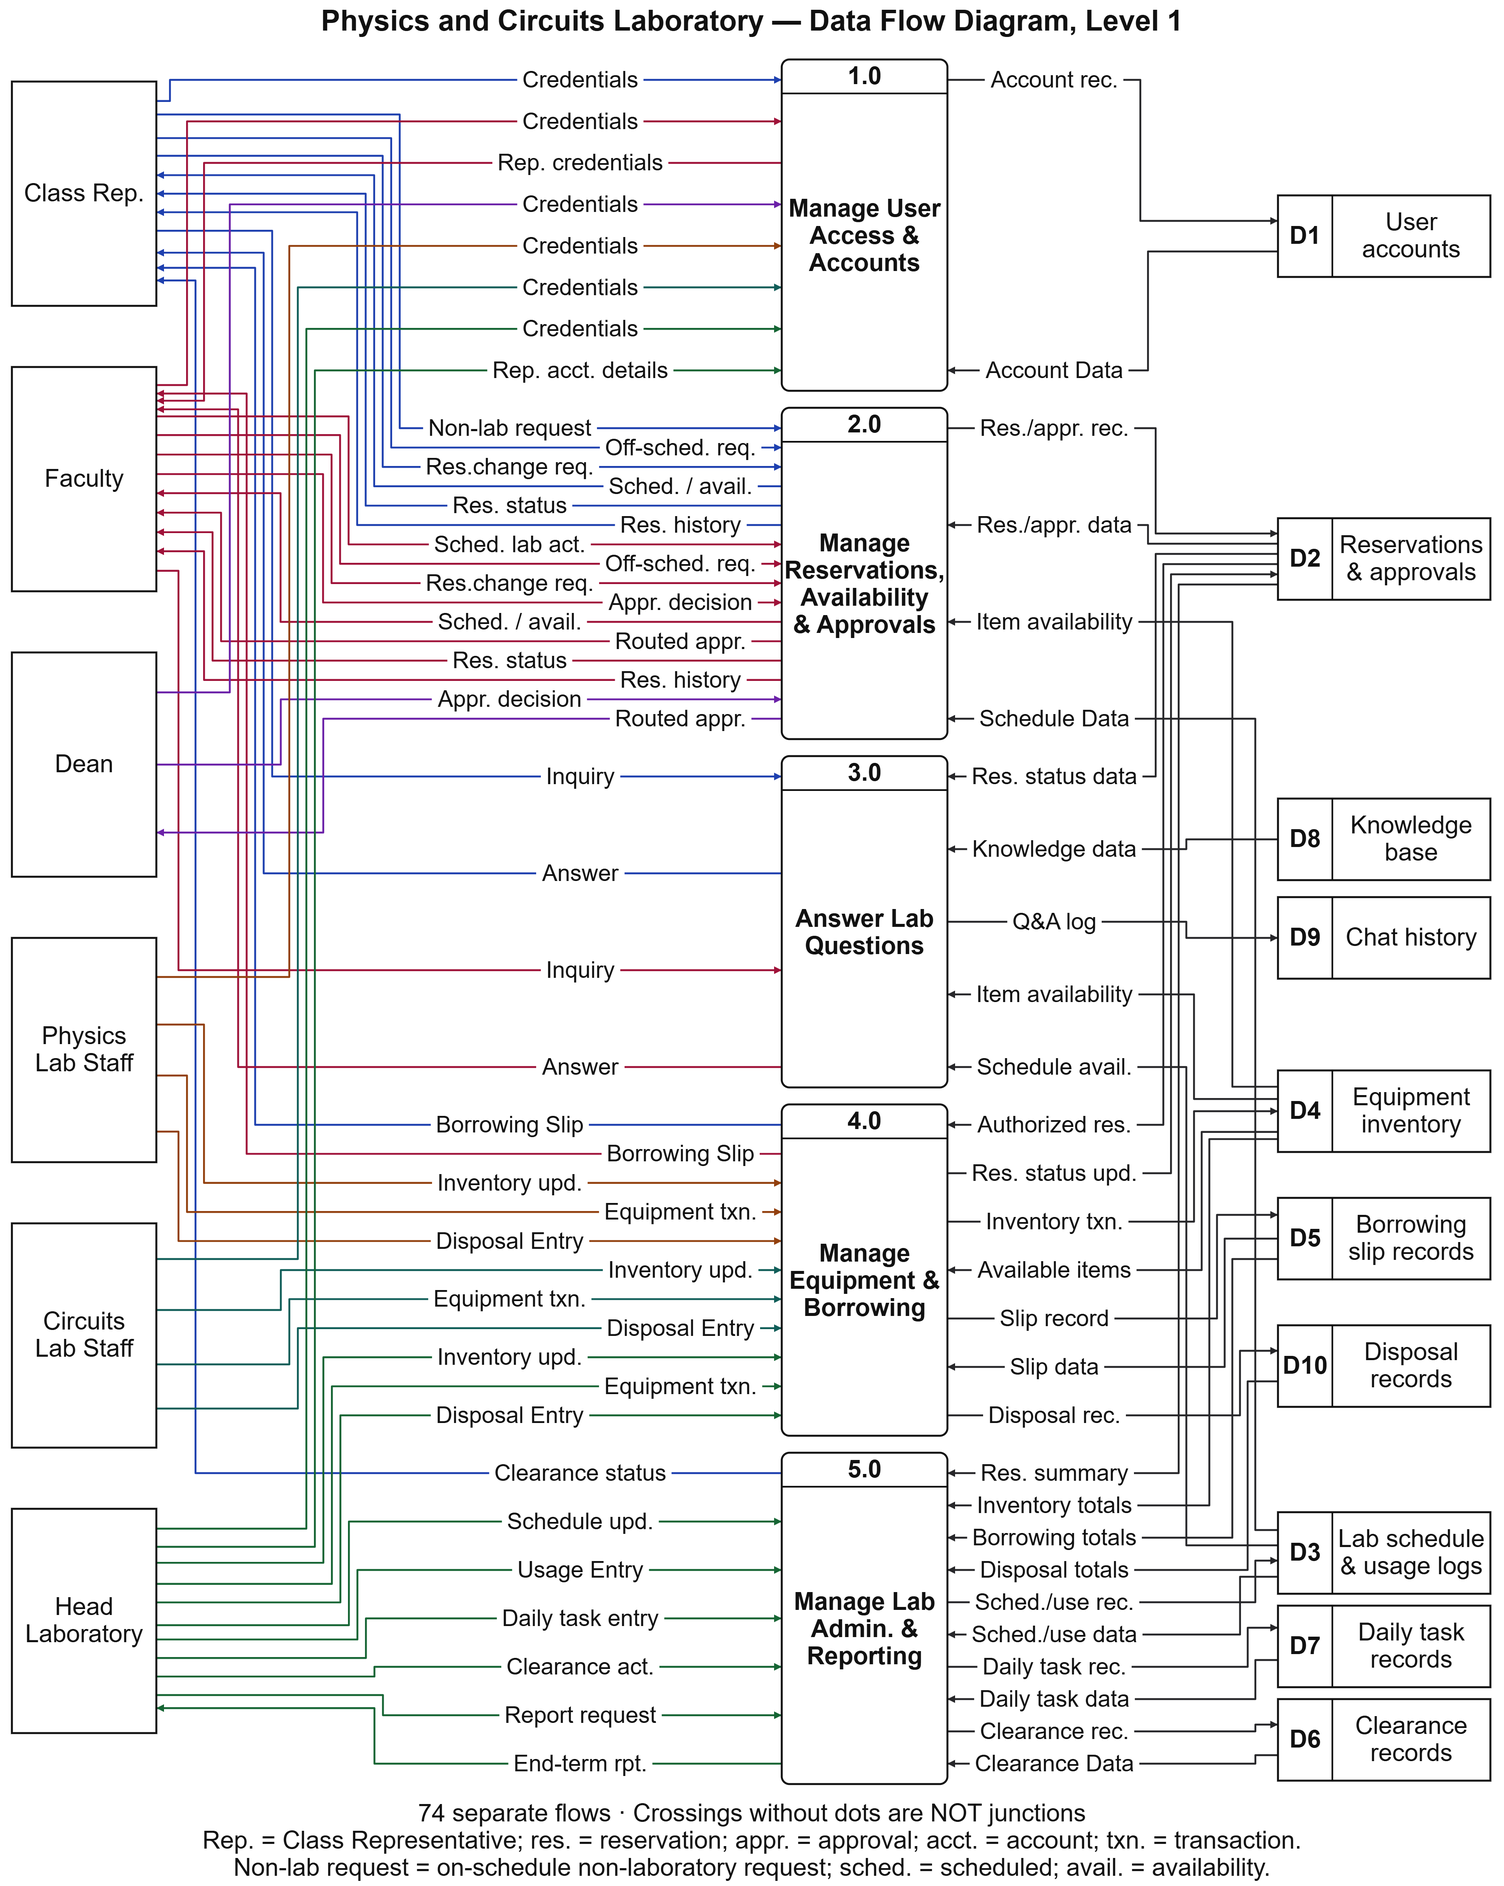
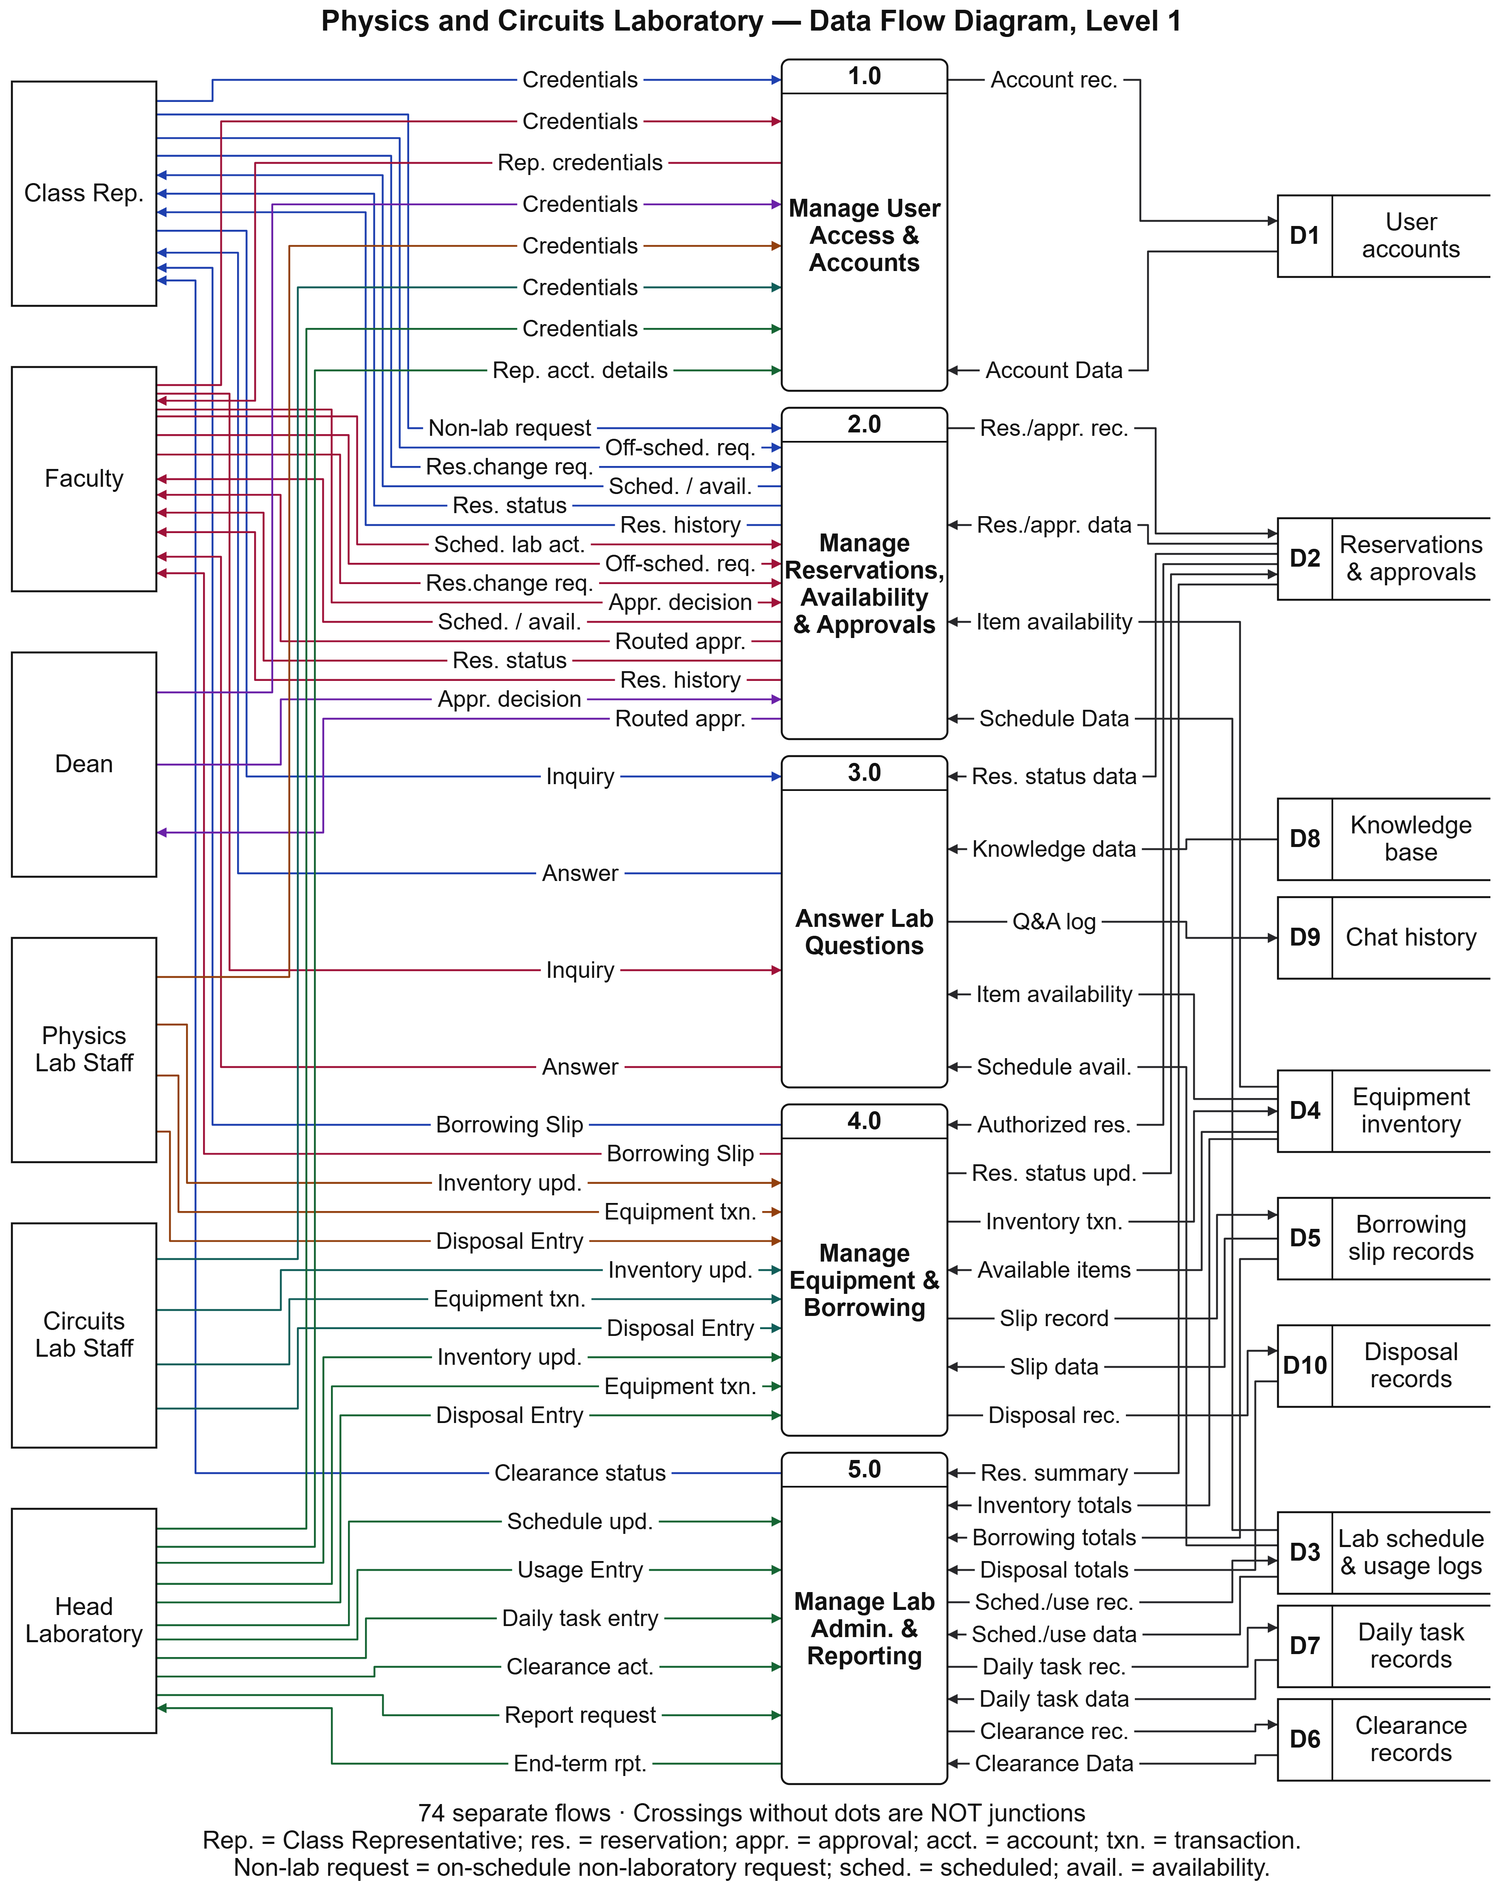
Improve DFD readability and order use-case login connectors

diff --git a/assets/figures-v2/dfd-level2-compact/dfd-level2-renderer.js b/assets/figures-v2/dfd-level2-compact/dfd-level2-renderer.js
@@ -4,7 +4,7 @@
 (async function(){
   'use strict';
   const params=new URLSearchParams(location.search),output=params.has('embed')||params.has('export');
-  const NS='http://www.w3.org/2000/svg',W=1834,H=1451.9166666667,FONT=27,LABEL_GAP=6;
+  const NS='http://www.w3.org/2000/svg',W=1878,H=1486.75,FONT=27,LABEL_GAP=6,LANE_GAP=20;
   document.body.classList.toggle('output-mode',output);
   const aliases={
     'Class Representative Credentials':'Rep. credentials',
@@ -132,7 +132,7 @@
     const targets={};
     [...actors,...stores].forEach(n=>{const links=model.flows.filter(f=>f.source===n.id||f.target===n.id);targets[n.id]=links.reduce((sum,f)=>sum+centre(nodes[f.source===n.id?f.target:f.source]),0)/links.length;});
     const E={x:14,w:170,h:Math.max(170,...actors.map(n=>model.flows.filter(f=>f.source===n.id||f.target===n.id).length*20+20))};
-    const D={x:1568,w:250,h:120,idw:64};
+    const D={x:1612,w:250,h:120,idw:64};
     // Actor order follows the approved role column; Head Laboratory remains last.
     place(actors,targets,E.h).forEach(n=>nodes[n.id]={...n,...E,kind:'entity',lines:entityLines[n.id]});
     place(stores.slice().sort((a,b)=>targets[a.id]-targets[b.id]),targets,D.h).forEach(n=>nodes[n.id]={...n,...D,kind:'store',lines:storeLines[n.id]});
@@ -142,8 +142,8 @@
     svg.appendChild(text(W/2,34,['Process '+model.id.slice(1)+'.0 — '+model.name],{'font-size':30,'font-weight':700}));
     const defs=el('defs');
     Object.entries({...colors,store:'#27272a',internal:'#27272a'}).forEach(([id,color])=>{
-      const marker=el('marker',{id:'arrow-'+id,markerWidth:10,markerHeight:10,refX:9,refY:4.5,orient:'auto',markerUnits:'userSpaceOnUse'});
-      marker.appendChild(el('path',{d:'M0 0 L9 4.5 L0 9 Z',fill:color}));defs.appendChild(marker);
+      const marker=el('marker',{id:'arrow-'+id,markerWidth:13,markerHeight:13,refX:12,refY:6,orient:'auto',markerUnits:'userSpaceOnUse'});
+      marker.appendChild(el('path',{d:'M0 0 L12 6 L0 12 Z',fill:color}));defs.appendChild(marker);
     });svg.appendChild(defs);
     const paths=el('g'),shapes=el('g'),labels=el('g');svg.append(paths,shapes,labels);
     document.getElementById('stage').replaceChildren(svg);
@@ -167,22 +167,28 @@
           const preferred=box.y+20+(i+.5)*(box.h-40)/own.length;let sy=null;
           for(let shift=0;shift<=box.h*2&&sy===null;shift++)for(const sign of [1,-1]){
             const candidate=preferred+sign*shift*.5;
-            if(candidate>=previous+8&&candidate>=box.y+12&&candidate<=box.y+box.h-12&&allY[kind].every(y=>Math.abs(y-candidate)>=8)){sy=candidate;break;}
+            if(candidate>=previous+14&&candidate>=box.y+12&&candidate<=box.y+box.h-12&&allY[kind].every(y=>Math.abs(y-candidate)>=8)){sy=candidate;break;}
           }
           if(sy===null)throw Error('Cannot separate port rows: '+f.id);
           previous=sy;allY[kind].push(sy);Object.assign(flowPorts[f.id],{sy,peer:n.id,process:process(f).id,peerOrder:i});
         });
       });
     }
-    // Mirror the vertical lane order across the process column. Earlier
-    // process ports get the outermost lane: leftmost for entities, rightmost
-    // for stores. Each flow owns a distinct lane, even for disjoint spans.
+    // Mirror lanes across BOTH axes: a peer above the process needs the
+    // opposite staircase from a peer below it. Arrow direction is unchanged.
+    // Keep upward/downward geometric runs in separate lane bands.
     const processOrder=(a,b)=>flowPorts[a.id].py-flowPorts[b.id].py;
     const left=model.flows.filter(f=>f.kind==='external').sort(processOrder);
     const right=model.flows.filter(f=>f.kind==='store').sort(processOrder);
     const laneById={};
-    left.forEach((f,i)=>laneById[f.id]=200+i*16);
-    right.forEach((f,i)=>laneById[f.id]=1358+(right.length-1-i)*16);
+    function assignLanes(flows,start,isLeft){
+      const below=flows.filter(f=>flowPorts[f.id].sy>flowPorts[f.id].py);
+      const above=flows.filter(f=>flowPorts[f.id].sy<=flowPorts[f.id].py);
+      const ordered=isLeft?below.concat(above.reverse()):above.concat(below.reverse());
+      ordered.forEach((f,i)=>laneById[f.id]=start+i*LANE_GAP);
+    }
+    assignLanes(left,200,true);
+    assignLanes(right,1358,false);
     function draw(f,points,lx,ly,label,colorKey,side){
       const path=el('path',{class:'diagram-connector','data-flow-id':f.id,d:points.map((p,i)=>(i?'L':'M')+p.join(' ')).join(' '),fill:'none',stroke:colors[colorKey]||'#27272a','stroke-width':2.2,'marker-end':'url(#arrow-'+colorKey+')'});
       const title=el('title');title.textContent=f.label;path.appendChild(title);paths.appendChild(path);
@@ -203,12 +209,13 @@
     });
     Object.values(nodes).forEach(n=>{
       const group=el('g',{'data-node-id':n.id,'data-node-kind':n.kind});
-      group.appendChild(el('rect',{x:n.x,y:n.y,width:n.w,height:n.h,rx:n.kind==='process'?9:0,fill:'#fff',stroke:'#111','stroke-width':2.3}));
+      group.appendChild(el('rect',{x:n.x,y:n.y,width:n.w,height:n.h,rx:n.kind==='process'?9:0,fill:'#fff',stroke:n.kind==='store'?'none':'#111','stroke-width':2.3}));
       if(n.kind==='process'){
         group.appendChild(el('line',{x1:n.x,y1:n.y+40,x2:n.x+n.w,y2:n.y+40,stroke:'#111','stroke-width':2}));
         group.appendChild(text(n.x+n.w/2,n.y+31,[n.number],{'font-size':29,'font-weight':700}));
       }
       if(n.kind==='store'){
+        group.appendChild(el('path',{'data-store-outline':'open-right',d:`M${n.x+n.w} ${n.y} H${n.x} V${n.y+n.h} H${n.x+n.w}`,fill:'none',stroke:'#111','stroke-width':2.3}));
         group.appendChild(el('line',{x1:n.x+n.idw,y1:n.y,x2:n.x+n.idw,y2:n.y+n.h,stroke:'#111','stroke-width':2}));
         group.appendChild(text(n.x+n.idw/2,n.y+n.h/2+9,[n.number],{'font-size':29,'font-weight':700}));
       }
@@ -222,9 +229,9 @@
     });
     document.getElementById('heading').textContent='DFD Level 2 — Process '+model.id.slice(1)+'.0';
     clearLabelStrokes(svg);
-    window.__level2={model,parent,nodes,routes,labelBoxes,constants:{W,H,P,E,D,FONT}};
+    window.__level2={model,parent,nodes,routes,labelBoxes,constants:{W,H,P,E,D,FONT,LANE_GAP}};
     if(!output){
-      const authored=svg.cloneNode(true);window.SOMADADiagramEditor.init(svg,{storageKey:'dfd-level2-mirrored-process-lanes-'+model.id+'-v4'});
+      const authored=svg.cloneNode(true);window.SOMADADiagramEditor.init(svg,{storageKey:'dfd-level2-large-heads-'+model.id+'-v7'});
       svg.querySelectorAll('.diagram-connector-hit').forEach(hit=>hit.removeAttribute('stroke-dasharray'));
       window.addEventListener('beforeprint',()=>svg.replaceWith(authored));window.addEventListener('afterprint',()=>authored.replaceWith(svg));
     }

diff --git a/assets/figures-v2/dfd-level1/dfd-level1-portrait.js b/assets/figures-v2/dfd-level1/dfd-level1-portrait.js
@@ -176,8 +176,8 @@
     svg.appendChild(el('rect',{width:W,height:H,fill:'#fff'}));
     const defs=el('defs');
     Object.entries({...colors,store:'#27272a'}).forEach(([key,color])=>{
-      const marker=el('marker',{id:'arrow-'+key,markerWidth:10,markerHeight:10,refX:9,refY:4.5,orient:'auto',markerUnits:'userSpaceOnUse'});
-      marker.appendChild(el('path',{d:'M0 0 L9 4.5 L0 9 Z',fill:color}));defs.appendChild(marker);
+      const marker=el('marker',{id:'arrow-'+key,markerWidth:13,markerHeight:13,refX:12,refY:6,orient:'auto',markerUnits:'userSpaceOnUse'});
+      marker.appendChild(el('path',{d:'M0 0 L12 6 L0 12 Z',fill:color}));defs.appendChild(marker);
     });
     svg.appendChild(defs);
     svg.appendChild(text(W/2,36,['Physics and Circuits Laboratory — Data Flow Diagram, Level 1'],{'font-size':34,'font-weight':700}));
@@ -219,15 +219,19 @@
     [...model.entities,...model.stores].sort((a,b)=>nodes[a.id].y-nodes[b.id].y).forEach(peer=>{
       const n=nodes[peer.id];
       const flows=model.flows.filter(f=>f.source===peer.id||f.target===peer.id).sort(orderedByPeer);
-      flows.forEach((f,i)=>{
+      const peerRows=[];
+      // Reserve incoming heads first; outgoing tails need less edge clearance.
+      flows.slice().sort((a,b)=>Number(b.target===peer.id)-Number(a.target===peer.id)).forEach(f=>{
+        const i=flows.indexOf(f);
         const preferred=n.y+12+(i+.5)*(n.h-24)/flows.length;
         let sy=null;
         for(let shift=0;shift<=n.h*2 && sy===null;shift++) for(const sign of [1,-1]) {
           const candidate=preferred+sign*shift*.5;
-          if(candidate>=n.y+12 && candidate<=n.y+n.h-12 && usedY[f.kind].every(y=>Math.abs(y-candidate)>=8)) {sy=candidate;break;}
+          if(candidate>=n.y+12 && candidate<=n.y+n.h-12 && usedY[f.kind].every(y=>Math.abs(y-candidate)>=8) && (f.target!==peer.id||peerRows.every(y=>Math.abs(y-candidate)>=14))) {sy=candidate;break;}
         }
         if(sy===null)throw new Error('Cannot separate horizontal approach rows for '+f.id);
         usedY[f.kind].push(sy);
+        if(f.target===peer.id)peerRows.push(sy);
         const p=port[f.id],external=f.kind==='external';
         const lane=external?200+(externalLane++)*EXTERNAL_LANE_STEP:1342+(storeLane++)*STORE_LANE_STEP;
         const process=nodes[nodes[f.source].kind==='process'?f.source:f.target];
@@ -252,12 +256,13 @@
     Object.values(nodes).forEach(n=>{
       const group=el('g',{'data-node-id':n.id,'data-node-kind':n.kind,'data-canonical-name':n.name});
       const title=el('title');title.textContent=n.name;group.appendChild(title);
-      group.appendChild(el('rect',{x:n.x,y:n.y,width:n.w,height:n.h,rx:n.kind==='process'?9:0,fill:'#fff',stroke:'#111','stroke-width':2.3}));
+      group.appendChild(el('rect',{x:n.x,y:n.y,width:n.w,height:n.h,rx:n.kind==='process'?9:0,fill:'#fff',stroke:n.kind==='store'?'none':'#111','stroke-width':2.3}));
       if(n.kind==='process') {
         group.appendChild(el('line',{x1:n.x,y1:n.y+40,x2:n.x+n.w,y2:n.y+40,stroke:'#111','stroke-width':2}));
         group.appendChild(text(n.x+n.w/2,n.y+29,[n.number],{'font-size':29,'font-weight':700}));
       }
       if(n.kind==='store') {
+        group.appendChild(el('path',{'data-store-outline':'open-right',d:`M${n.x+n.w} ${n.y} H${n.x} V${n.y+n.h} H${n.x+n.w}`,fill:'none',stroke:'#111','stroke-width':2.3}));
         group.appendChild(el('line',{x1:n.x+n.idw,y1:n.y,x2:n.x+n.idw,y2:n.y+n.h,stroke:'#111','stroke-width':2}));
         group.appendChild(text(n.x+n.idw/2,n.y+n.h/2+9,[n.number],{'font-size':29,'font-weight':700}));
       }
@@ -282,7 +287,7 @@
     if(!output) {
       const authored=svg.cloneNode(true);
       authored.querySelector('[data-routing-guides]').replaceChildren();
-      window.SOMADADiagramEditor.init(svg,{storageKey:'dfd-level1-a4-portrait-74-head-only-logs-v3'});
+      window.SOMADADiagramEditor.init(svg,{storageKey:'dfd-level1-a4-portrait-74-large-heads-v4'});
       svg.querySelectorAll('.diagram-connector-hit').forEach(hit=>hit.removeAttribute('stroke-dasharray'));
       // Ctrl+P and the Print button both print the checked authored geometry,
       // not potentially overlapping edits saved by an individual browser.

diff --git a/assets/figures-v2/usecase-diagram-source.html b/assets/figures-v2/usecase-diagram-source.html
@@ -244,6 +244,10 @@ svg.appendChild(textEl(CANVAS_W/2, BOUNDARY.y+40, ['A Web-Based Physics and Circ
 // to the base use cases in which they directly participate.
 const associationLayer = el('g', {'aria-label':'Actor associations'});
 svg.appendChild(associationLayer);
+// Visual order differs from ACTORS array order after Faculty and Dean move.
+const loginActorsBySide = Object.fromEntries(['left','right'].map(side => [side,
+  ACTORS.filter(actor => actor.side===side && actor.uses.includes('login')).sort((a,b)=>a.cy-b.cy)
+]));
 ACTORS.forEach(actor => {
   const hand = {
     x:ACTOR_X[actor.side] + (actor.side === 'left' ? 58 : -58),
@@ -253,8 +257,11 @@ ACTORS.forEach(actor => {
     const useCase = byId[useCaseId];
     const endpoint = ellipseSidePoint(useCase, actor.side);
     const flowId = `association-${actor.id}-${useCaseId}`;
-    const i=ACTORS.indexOf(actor),left=actor.side==='left';
-    const outer=left?180-i*7:1420+i*7,inner=endpoint.x+(left?-22-i*7:22+i*7),top=158+i*8;
+    const left=actor.side==='left';
+    const loginRank=loginActorsBySide[actor.side].indexOf(actor);
+    const i=loginRank+(left?0:loginActorsBySide.left.length);
+    const outer=left?152+loginRank*14:1448-loginRank*14;
+    const inner=endpoint.x+(left?-22-i*7:22+i*7),top=158+i*8;
     associationLayer.appendChild(el('path', {
       class:'diagram-connector', 'data-flow-id':flowId,
       d:useCaseId==='login'
@@ -358,7 +365,7 @@ document.querySelectorAll('.diagram-flow-label').forEach((label,i)=>{
 });
 if(!outputMode){
   const authored=svg.cloneNode(true);
-  window.SOMADADiagramEditor.init(svg, {storageKey:'usecase-head-only-logs-v3'});
+  window.SOMADADiagramEditor.init(svg, {storageKey:'usecase-ordered-login-lanes-v5'});
   window.addEventListener('beforeprint',()=>svg.replaceWith(authored));
   window.addEventListener('afterprint',()=>authored.replaceWith(svg));
 }

diff --git a/assets/figures-v2/dfd-level2-compact/PRINT-READABILITY.md b/assets/figures-v2/dfd-level2-compact/PRINT-READABILITY.md
@@ -1,8 +1,12 @@
 # Level 2 publication figures
 
+Level 1 and Level 2 arrowheads are now 12 × 12 internal units (previously 9 × 9), with the marker reference at the triangle tip so endpoints remain attached. Level 1 reserves incoming peer ports first with 14-unit head spacing; Level 2 peer ports keep at least 14 units. Both audits check head separation. Editor storage versions are Level 1 v4 and Level 2 v7, superseding older keys mentioned below.
+
+All Level 1 and Level 2 stores use an open-right outline: top, left and bottom borders plus the identifier divider. The white fill has no rectangular stroke, so no right border remains. Store dimensions, labels and left-edge arrow endpoints are preserved. Both geometry audits assert this outline for every store before rendering publication PNGs.
+
 The active source is `dfd-level2-model.json`, drawn by `dfd-level2-renderer.js` through `dfd-level2-compact.html?process=p1` (p1–p5). The former dedicated P5 script is no longer loaded.
 
-Each parent has its own 1200 × 950 publication frame and 2400 × 1900 PNG. The internal coordinate space is 1834 × 1451.9167, widened slightly to fit distinct ordered store lanes while preserving the publication aspect ratio. Boundary labels are 27 units, approximately 7.3 pt at the current A4 document width. Shapes are white with black borders; entity-specific arrow colors match Level 1. No label box covers other arrows: only the label's own stroke is interrupted.
+Each parent has its own 1200 × 950 publication frame and 2400 × 1900 PNG. The internal coordinate space is 1878 × 1486.75, widened slightly to fit distinct ordered store lanes while preserving the publication aspect ratio. Boundary labels are 27 units, approximately 7.1 pt at the current A4 document width. Shapes are white with black borders; entity-specific arrow colors match Level 1. No label box covers other arrows: only the label's own stroke is interrupted.
 
 All 74 current Level 1 flows are mapped by stable parent IDs. Repeated store reads/writes represent separate child stages, not additional parent features.
 
@@ -20,7 +24,7 @@ Entity right-edge ports and store left-edge ports now follow subprocess order fr
 
 Run `node integrations/google-docs/check-level2.cjs --render` with Playwright available to audit all figures and regenerate the five PNGs. Run `check-pages.cjs` to verify intact A4 images and read-only sync capture. Browser edits are stored locally; print and embed/export use the audited authored layout.
 
-Vertical routing lanes also follow subprocess order: on the store side, the highest process owns the rightmost lane and later process ports step left; the entity side mirrors this, starting leftmost and stepping right. All lanes on each side are distinct with 16 internal units of separation, including routes whose vertical spans do not overlap. Direction does not affect lane ownership. The geometry audit checks this mirrored ordering in addition to the top-to-bottom peer ports. Editor storage version 4 prevents older manual routes from overriding these authored lanes.
+Vertical routing lanes mirror across both axes. For a peer below its process port, the store side starts rightmost and steps left; the entity side starts leftmost and steps right. For a peer above its process port, both orders reverse. Upward and downward geometric runs use separate lane bands; arrow direction itself is unchanged. All lanes on each side are distinct with 20 internal units (25% wider than the previous 16-unit spacing) of separation, including disjoint spans. In P5, the D3, D7 and D2 inputs into 5.4 step left-to-right, while the 5.5 End-Term Report return sits left of the Head Laboratory report-request lane. The audit checks these examples, both geometric orientations and the existing top-to-bottom peer ports. Editor storage version 6 prevents older manual routes from overriding this layout.
 
 Level 0 uses the same visual rules in `../dfd-level0/dfd-level0-portrait.js`: one process, six uniform entities, 46 independent horizontal arrows, 22-unit labels on a 1200 × 1500 portrait canvas, exported at 2400 × 3000. It derives boundary exchanges directly from Level 1. Run `check-dfd-scope.cjs --render` to audit and regenerate it.
 
